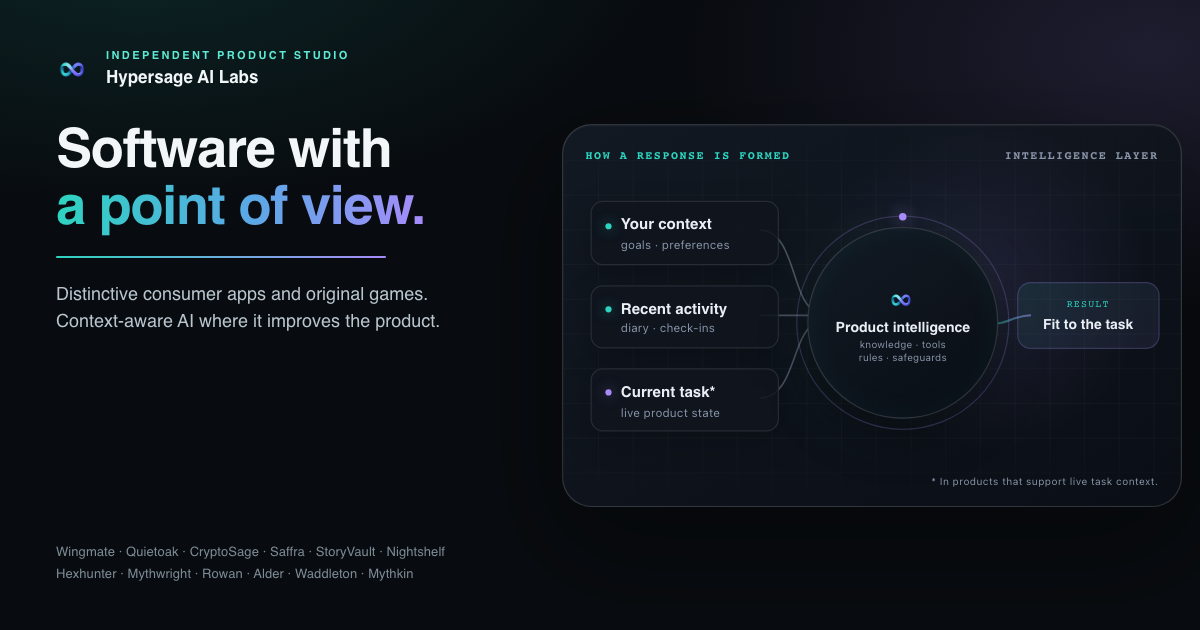
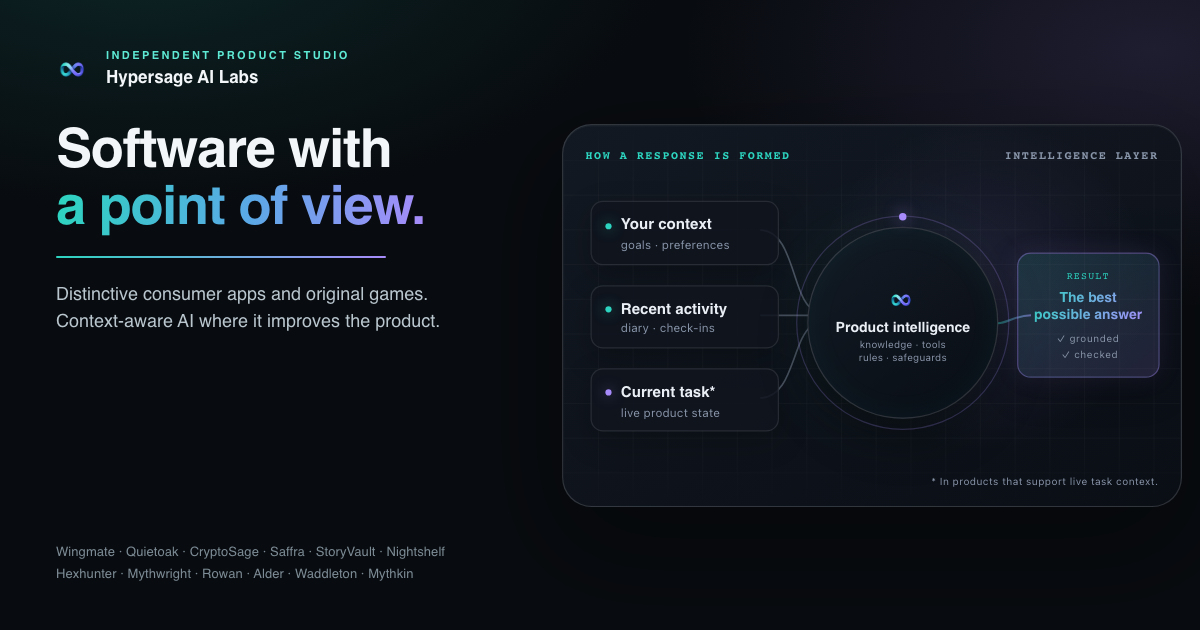
The link preview shows the answer the site actually promises
og-image.png was rendered before the hero diagram changed, so every shared
link showed a RESULT of 'Fit to the task' where the page now says 'The best
possible answer' — and carried the older teal result card instead of the
current violet one with its grounded/checked ticks. build_og.py lifts the
page's own figure, so this was a stale render, not a broken tool: re-running
it was the whole fix.

Cache-buster bumped to v=20260811a on every root reference, because a preview
that scraped the old bytes will keep serving them otherwise. Subsite previews
are audited separately and deliberately not touched here.

Changed region(s): [[0.8325, 0.3921, 0.9867, 0.6032]]

diff --git a/index.html b/index.html
@@ -17,7 +17,7 @@
   <meta property="og:description" content="Hypersage is an independent studio building distinctive consumer apps and original games, with context-aware AI where it improves the product.">
   <meta property="og:url" content="https://hypersage.ai/">
   <meta property="og:site_name" content="Hypersage AI Labs">
-  <meta property="og:image" content="https://hypersage.ai/og-image.png?v=20260810y">
+  <meta property="og:image" content="https://hypersage.ai/og-image.png?v=20260811a">
   <meta property="og:image:type" content="image/png">
   <meta property="og:image:width" content="1200">
   <meta property="og:image:height" content="630">
@@ -25,7 +25,7 @@
   <meta name="twitter:card" content="summary_large_image">
   <meta name="twitter:title" content="Hypersage AI Labs — Independent Product Studio">
   <meta name="twitter:description" content="Hypersage is an independent studio building distinctive consumer apps and original games, with context-aware AI where it improves the product.">
-  <meta name="twitter:image" content="https://hypersage.ai/og-image.png?v=20260810y">
+  <meta name="twitter:image" content="https://hypersage.ai/og-image.png?v=20260811a">
   <meta name="twitter:image:alt" content="Hypersage AI Labs — an independent product studio">
 
   <link rel="icon" type="image/png" href="favicon.png">
@@ -43,7 +43,7 @@
         "legalName": "HyperSage AI Labs LLC",
         "url": "https://hypersage.ai/",
         "logo": "https://hypersage.ai/apple-touch-icon.png",
-        "image": "https://hypersage.ai/og-image.png?v=20260810y",
+        "image": "https://hypersage.ai/og-image.png?v=20260811a",
         "description": "An independent studio building distinctive consumer apps and original games, with context-aware AI where it improves the product.",
         "email": "support@hypersage.ai",
         "address": { "@type": "PostalAddress", "addressRegion": "DE", "addressCountry": "US" }

diff --git a/privacy.html b/privacy.html
@@ -17,11 +17,11 @@
   <meta property="og:description" content="How the Hypersage AI Labs website handles data — it collects nothing, sets no cookies, and runs no analytics. Each product has its own policy.">
   <meta property="og:url" content="https://hypersage.ai/privacy.html">
   <meta property="og:site_name" content="Hypersage AI Labs">
-  <meta property="og:image" content="https://hypersage.ai/og-image.png?v=20260806c">
+  <meta property="og:image" content="https://hypersage.ai/og-image.png?v=20260811a">
   <meta property="og:image:width" content="1200">
   <meta property="og:image:height" content="630">
   <meta name="twitter:card" content="summary_large_image">
-  <meta name="twitter:image" content="https://hypersage.ai/og-image.png?v=20260806c">
+  <meta name="twitter:image" content="https://hypersage.ai/og-image.png?v=20260811a">
   <link rel="icon" type="image/png" href="favicon.png">
   <link rel="apple-touch-icon" sizes="180x180" href="apple-touch-icon.png">
   <link rel="stylesheet" href="fonts/fonts.css">

diff --git a/press.html b/press.html
@@ -13,11 +13,11 @@
   <meta property="og:description" content="Studio boilerplate, fact sheet, product one-liners, and downloadable logos and icons.">
   <meta property="og:url" content="https://hypersage.ai/press.html">
   <meta property="og:site_name" content="Hypersage AI Labs">
-  <meta property="og:image" content="https://hypersage.ai/og-image.png?v=20260806c">
+  <meta property="og:image" content="https://hypersage.ai/og-image.png?v=20260811a">
   <meta property="og:image:width" content="1200">
   <meta property="og:image:height" content="630">
   <meta name="twitter:card" content="summary_large_image">
-  <meta name="twitter:image" content="https://hypersage.ai/og-image.png?v=20260806c">
+  <meta name="twitter:image" content="https://hypersage.ai/og-image.png?v=20260811a">
   <link rel="icon" type="image/png" href="favicon.png">
   <link rel="apple-touch-icon" sizes="180x180" href="apple-touch-icon.png">
   <link rel="stylesheet" href="fonts/fonts.css">

diff --git a/support.html b/support.html
@@ -16,11 +16,11 @@
   <meta property="og:description" content="Get help with a Hypersage product, or reach the studio. Email support@hypersage.ai.">
   <meta property="og:url" content="https://hypersage.ai/support.html">
   <meta property="og:site_name" content="Hypersage AI Labs">
-  <meta property="og:image" content="https://hypersage.ai/og-image.png?v=20260806c">
+  <meta property="og:image" content="https://hypersage.ai/og-image.png?v=20260811a">
   <meta property="og:image:width" content="1200">
   <meta property="og:image:height" content="630">
   <meta name="twitter:card" content="summary_large_image">
-  <meta name="twitter:image" content="https://hypersage.ai/og-image.png?v=20260806c">
+  <meta name="twitter:image" content="https://hypersage.ai/og-image.png?v=20260811a">
   <link rel="icon" type="image/png" href="favicon.png">
   <link rel="apple-touch-icon" sizes="180x180" href="apple-touch-icon.png">
   <link rel="stylesheet" href="fonts/fonts.css">

diff --git a/terms.html b/terms.html
@@ -16,11 +16,11 @@
   <meta property="og:description" content="The terms that govern the Hypersage AI Labs website. Each product has its own terms.">
   <meta property="og:url" content="https://hypersage.ai/terms.html">
   <meta property="og:site_name" content="Hypersage AI Labs">
-  <meta property="og:image" content="https://hypersage.ai/og-image.png?v=20260806c">
+  <meta property="og:image" content="https://hypersage.ai/og-image.png?v=20260811a">
   <meta property="og:image:width" content="1200">
   <meta property="og:image:height" content="630">
   <meta name="twitter:card" content="summary_large_image">
-  <meta name="twitter:image" content="https://hypersage.ai/og-image.png?v=20260806c">
+  <meta name="twitter:image" content="https://hypersage.ai/og-image.png?v=20260811a">
   <link rel="icon" type="image/png" href="favicon.png">
   <link rel="apple-touch-icon" sizes="180x180" href="apple-touch-icon.png">
   <link rel="stylesheet" href="fonts/fonts.css">
